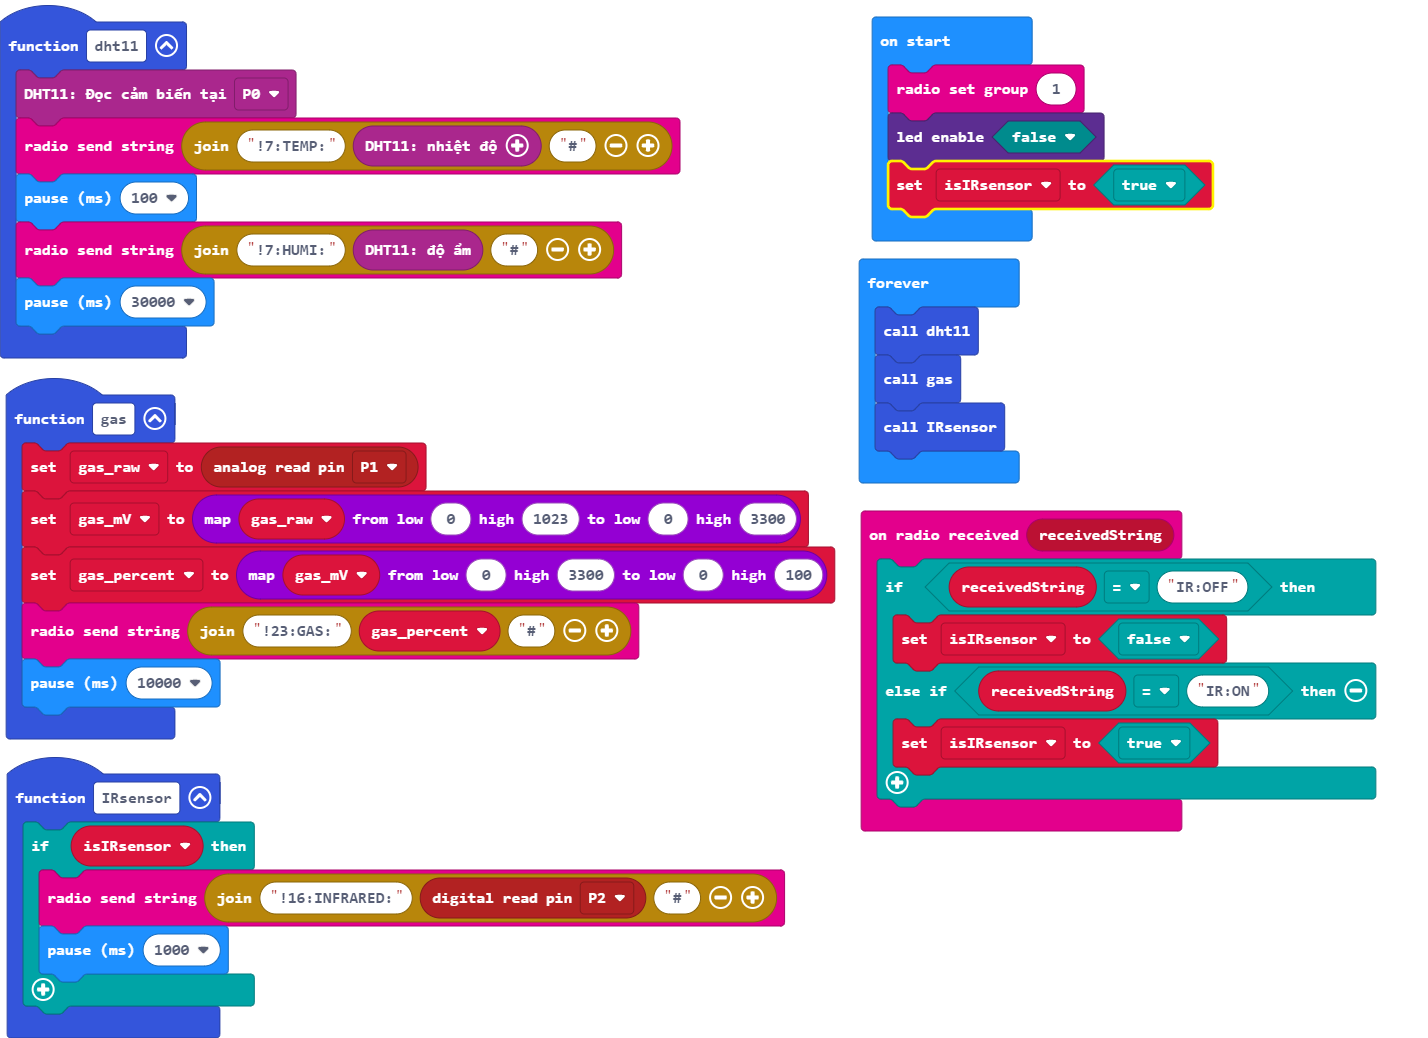
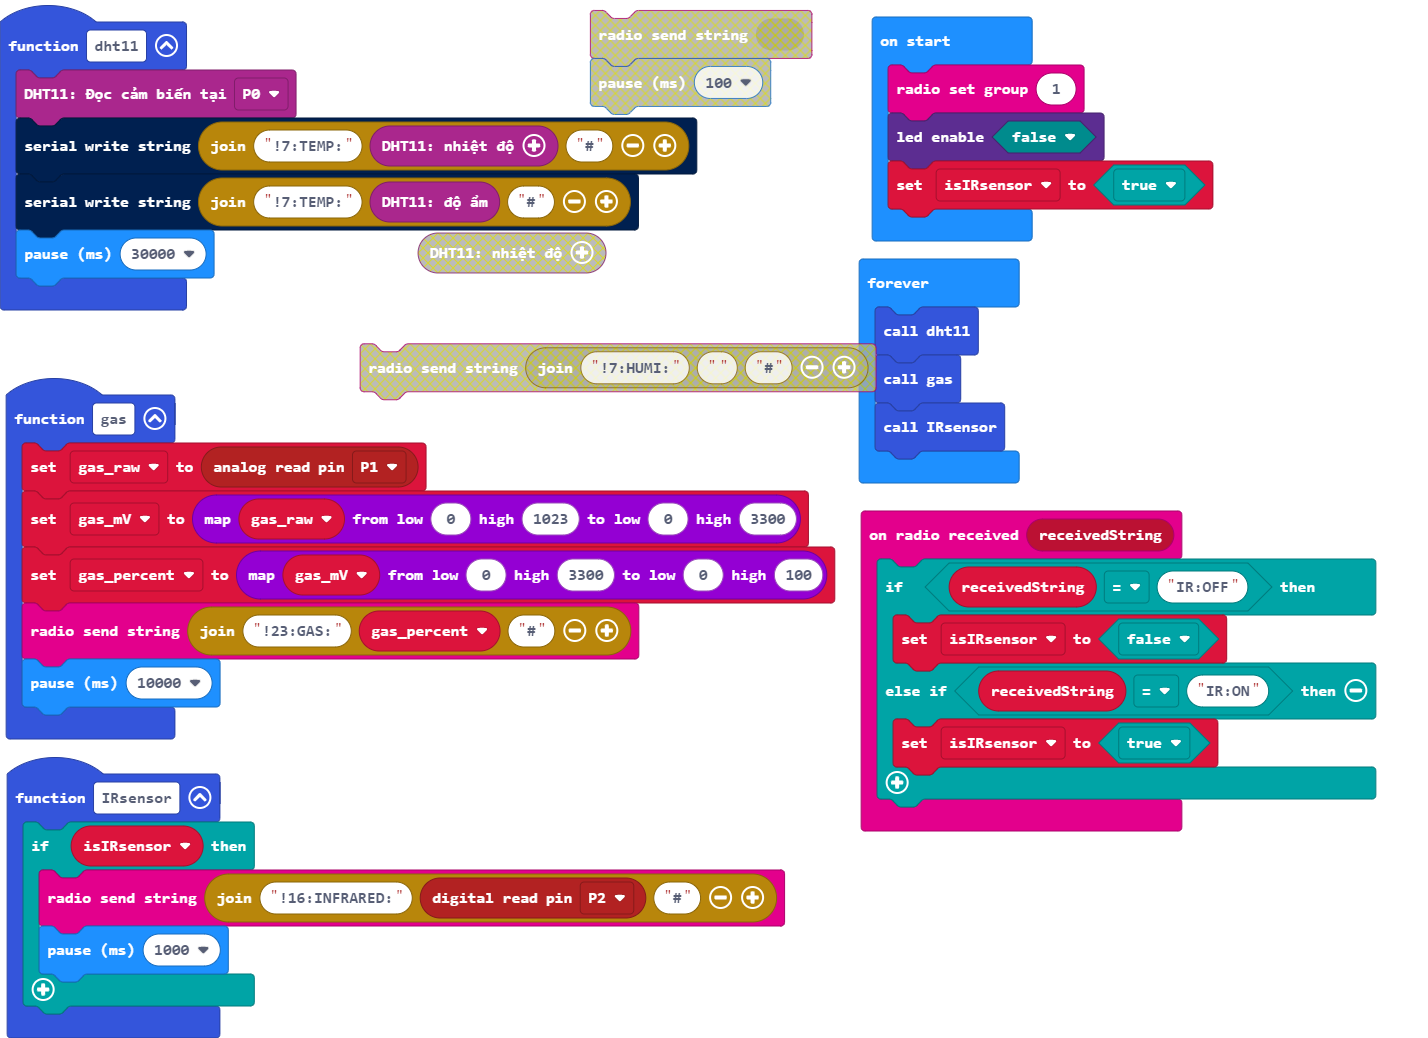
Update main.blocks, main.ts, main.py

Changed region(s): [[0.0, 0.0, 0.5854, 0.3699], [0.2465, 0.3083, 0.6162, 0.4008], [0.6162, 0.1541, 0.8627, 0.2158]]

diff --git a/main.ts b/main.ts
@@ -1,8 +1,7 @@
 function dht11 () {
     NPNBitKit.DHT11Read(DigitalPin.P0)
-    radio.sendString("!7:TEMP:" + NPNBitKit.DHT11Temp() + "#")
-    basic.pause(100)
-    radio.sendString("!7:HUMI:" + NPNBitKit.DHT11Hum() + "#")
+    serial.writeString("!7:TEMP:" + NPNBitKit.DHT11Temp() + "#")
+    serial.writeString("!7:TEMP:" + NPNBitKit.DHT11Hum() + "#")
     basic.pause(30000)
 }
 function gas () {

diff --git a/main.py b/main.py
@@ -1,22 +1,36 @@
 def dht11():
     NPNBitKit.dht11_read(DigitalPin.P0)
-    radio.send_string("!7:TEMP:" + ("" + str(NPNBitKit.dht11_temp())) + "#")
+    radio.send_string("!7:TEMP:" + str(NPNBitKit.dht11_temp()) + "#")
     basic.pause(100)
-    radio.send_string("!7:HUMI:" + ("" + str(NPNBitKit.dht11_hum())) + "#")
+    radio.send_string("!7:HUMI:" + str(NPNBitKit.dht11_hum()) + "#")
     basic.pause(30000)
 def gas():
-    global gas_raw, gas_mV
+    global gas_raw, gas_mV, gas_percent
     gas_raw = pins.analog_read_pin(AnalogPin.P1)
     gas_mV = Math.map(gas_raw, 0, 1023, 0, 3300)
-    radio.send_string("!23:GAS:" + ("" + str(gas_mV)) + "#")
+    gas_percent = Math.map(gas_mV, 0, 3300, 0, 100)
+    radio.send_string("!23:GAS:" + str(gas_percent) + "#")
     basic.pause(10000)
 def IRsensor():
-    radio.send_string("!16:INFRARED:" + ("" + str(pins.digital_read_pin(DigitalPin.P2))) + "#")
-    basic.pause(1000)
+    if isIRsensor:
+        radio.send_string("!16:INFRARED:" + str(pins.digital_read_pin(DigitalPin.P2)) + "#")
+        basic.pause(1000)
+
+def on_received_string(receivedString):
+    global isIRsensor
+    if receivedString == "IR:OFF":
+        isIRsensor = False
+    elif receivedString == "IR:ON":
+        isIRsensor = True
+radio.on_received_string(on_received_string)
+
+gas_percent = 0
 gas_mV = 0
 gas_raw = 0
+isIRsensor = False
 radio.set_group(1)
 led.enable(False)
+isIRsensor = True
 
 def on_forever():
     dht11()
